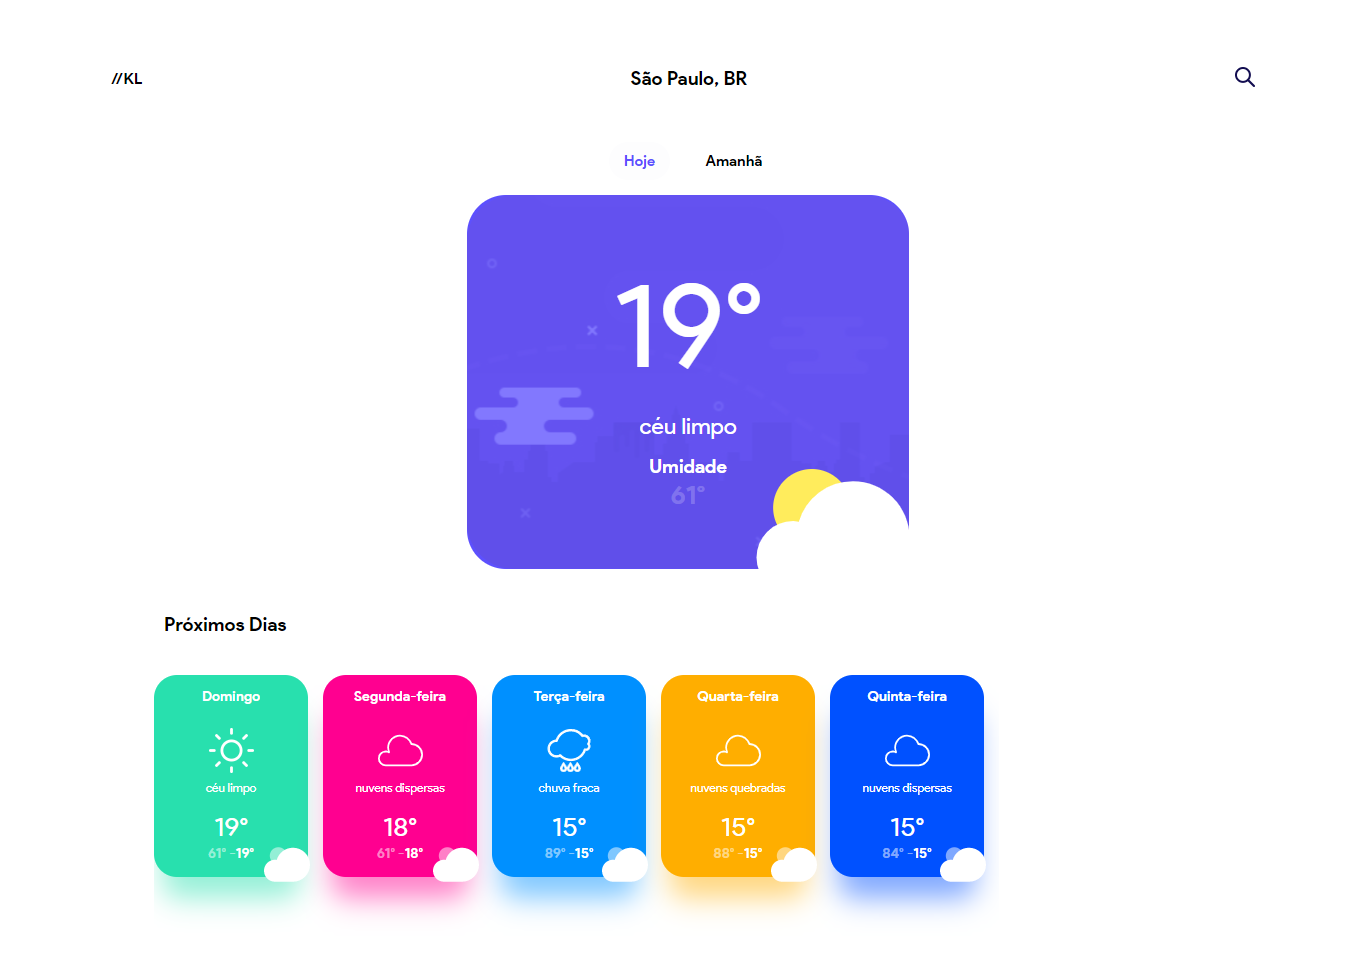
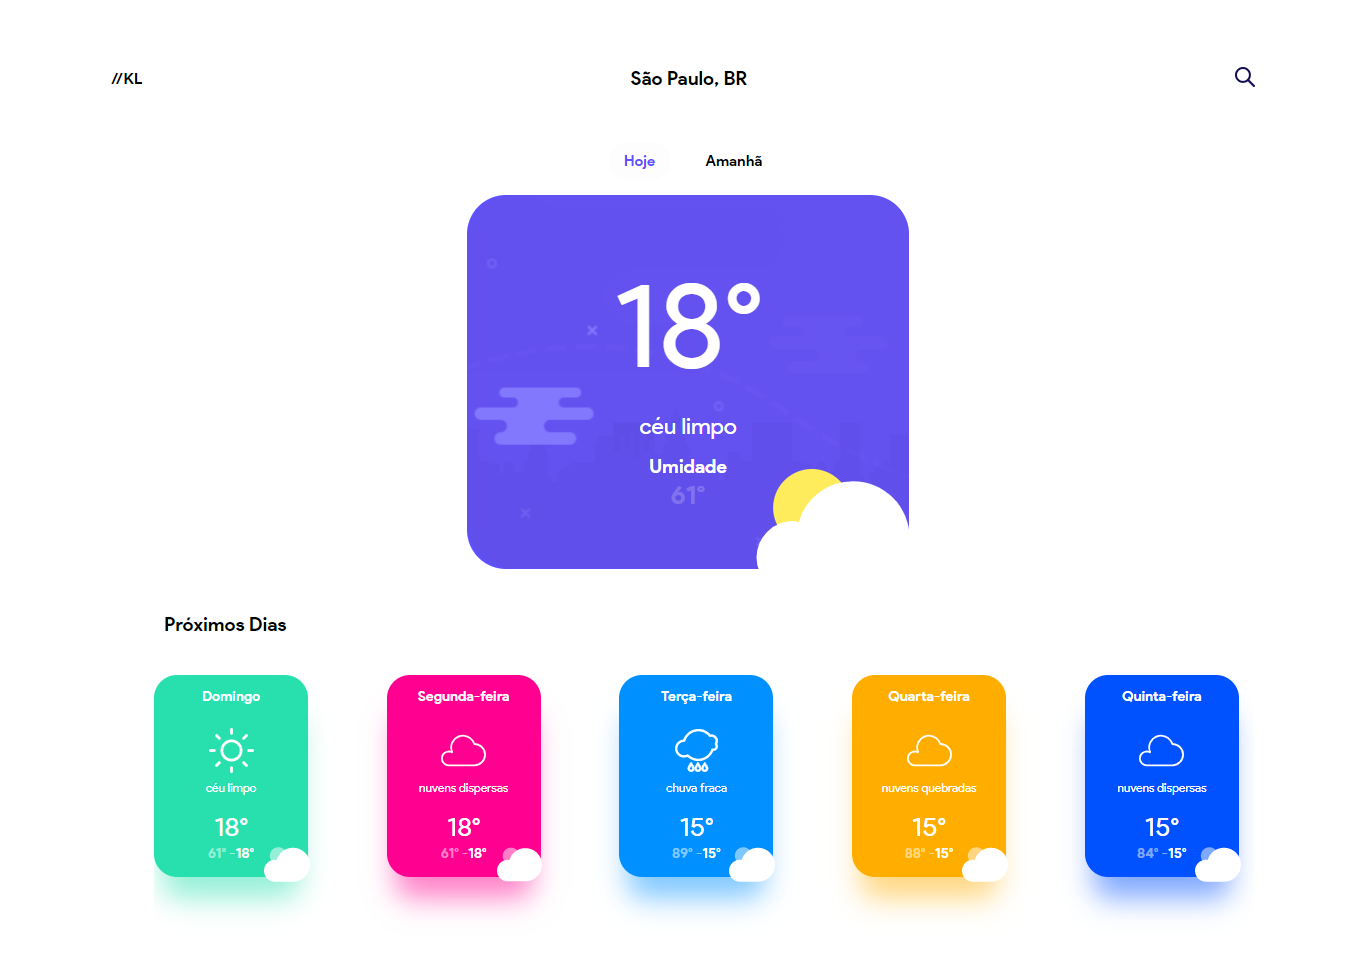
fix desktop layout

diff --git a/src/components/DaysCard/styles.scss b/src/components/DaysCard/styles.scss
@@ -6,7 +6,8 @@
 
     @media (min-width: 700px) 
     {
-        justify-content: center;
+        width: 90%;
+        justify-content: space-between;
     }
 
     &__item {

diff --git a/src/components/Content/styles.scss b/src/components/Content/styles.scss
@@ -45,6 +45,7 @@
         @media (min-width: 700px) 
         {
             padding-left: 144px;
+            width: 100%;
         }
     }
 }
